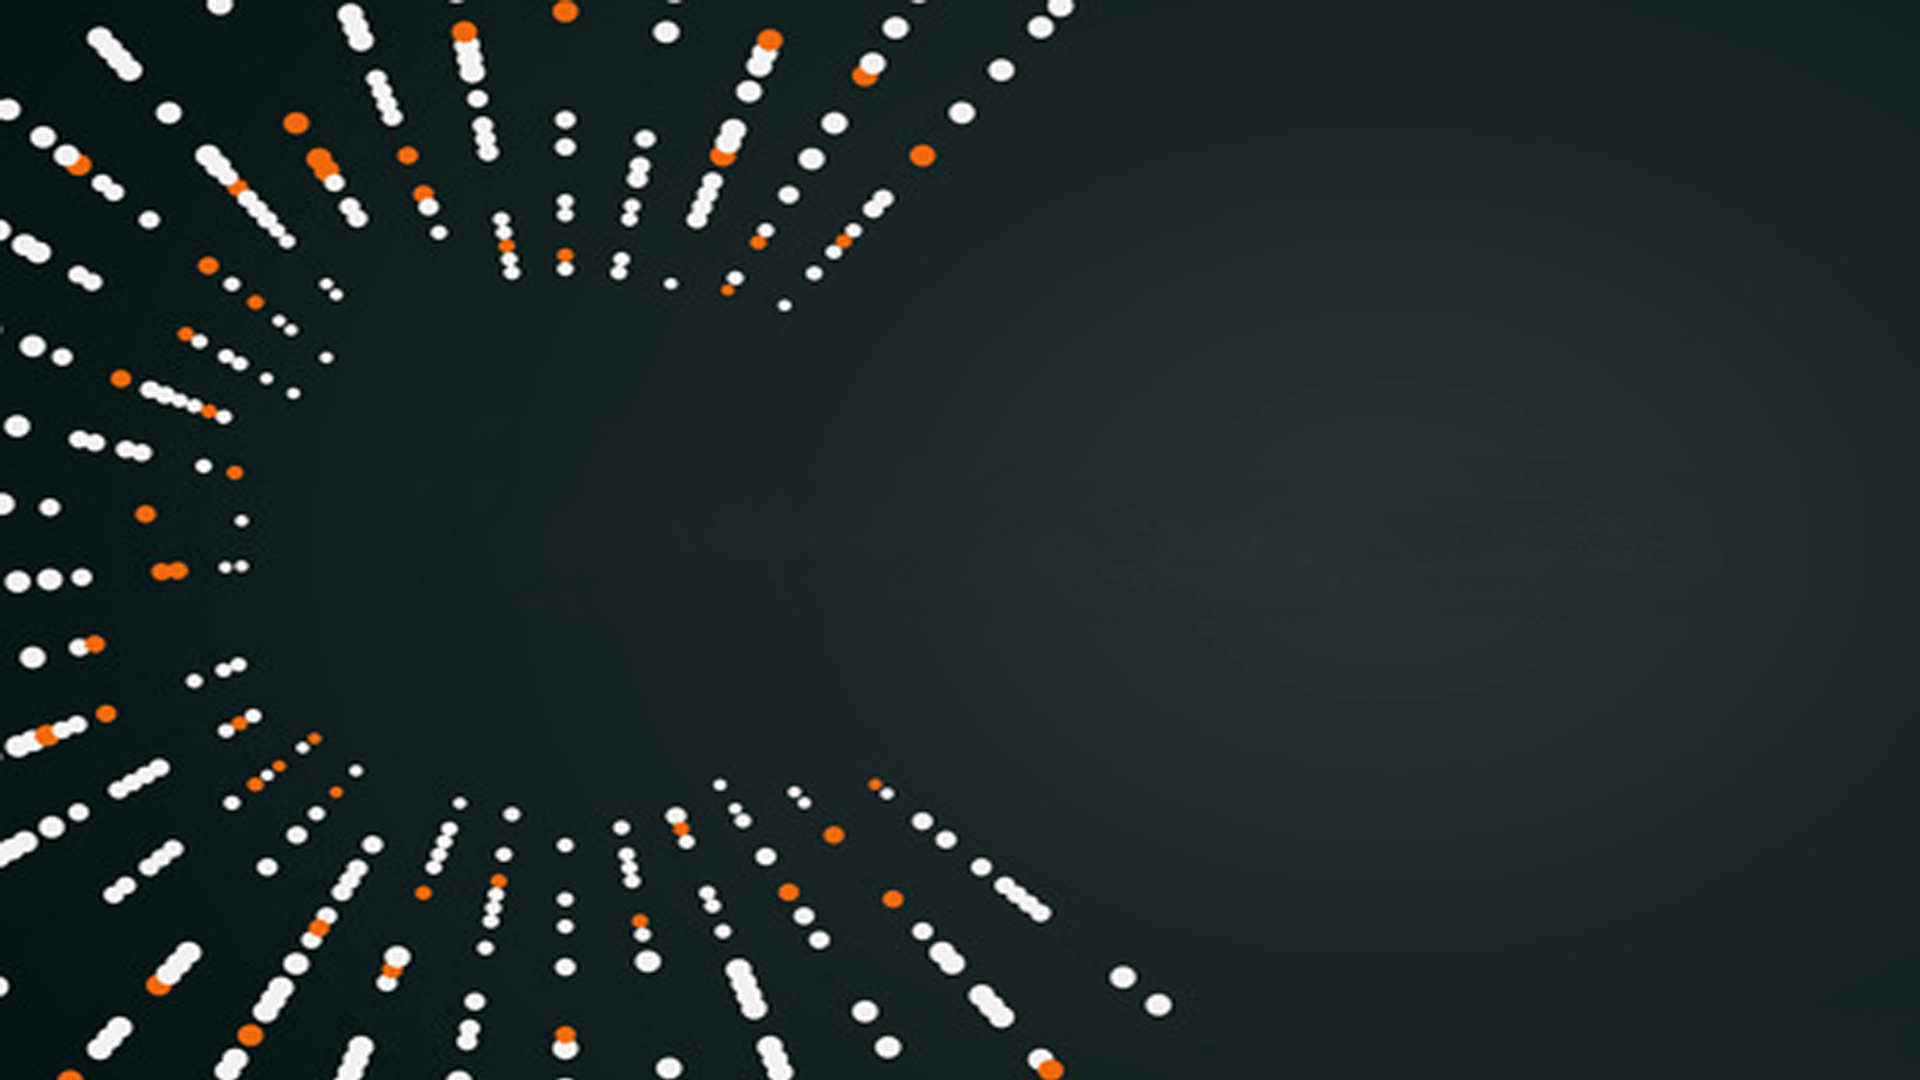
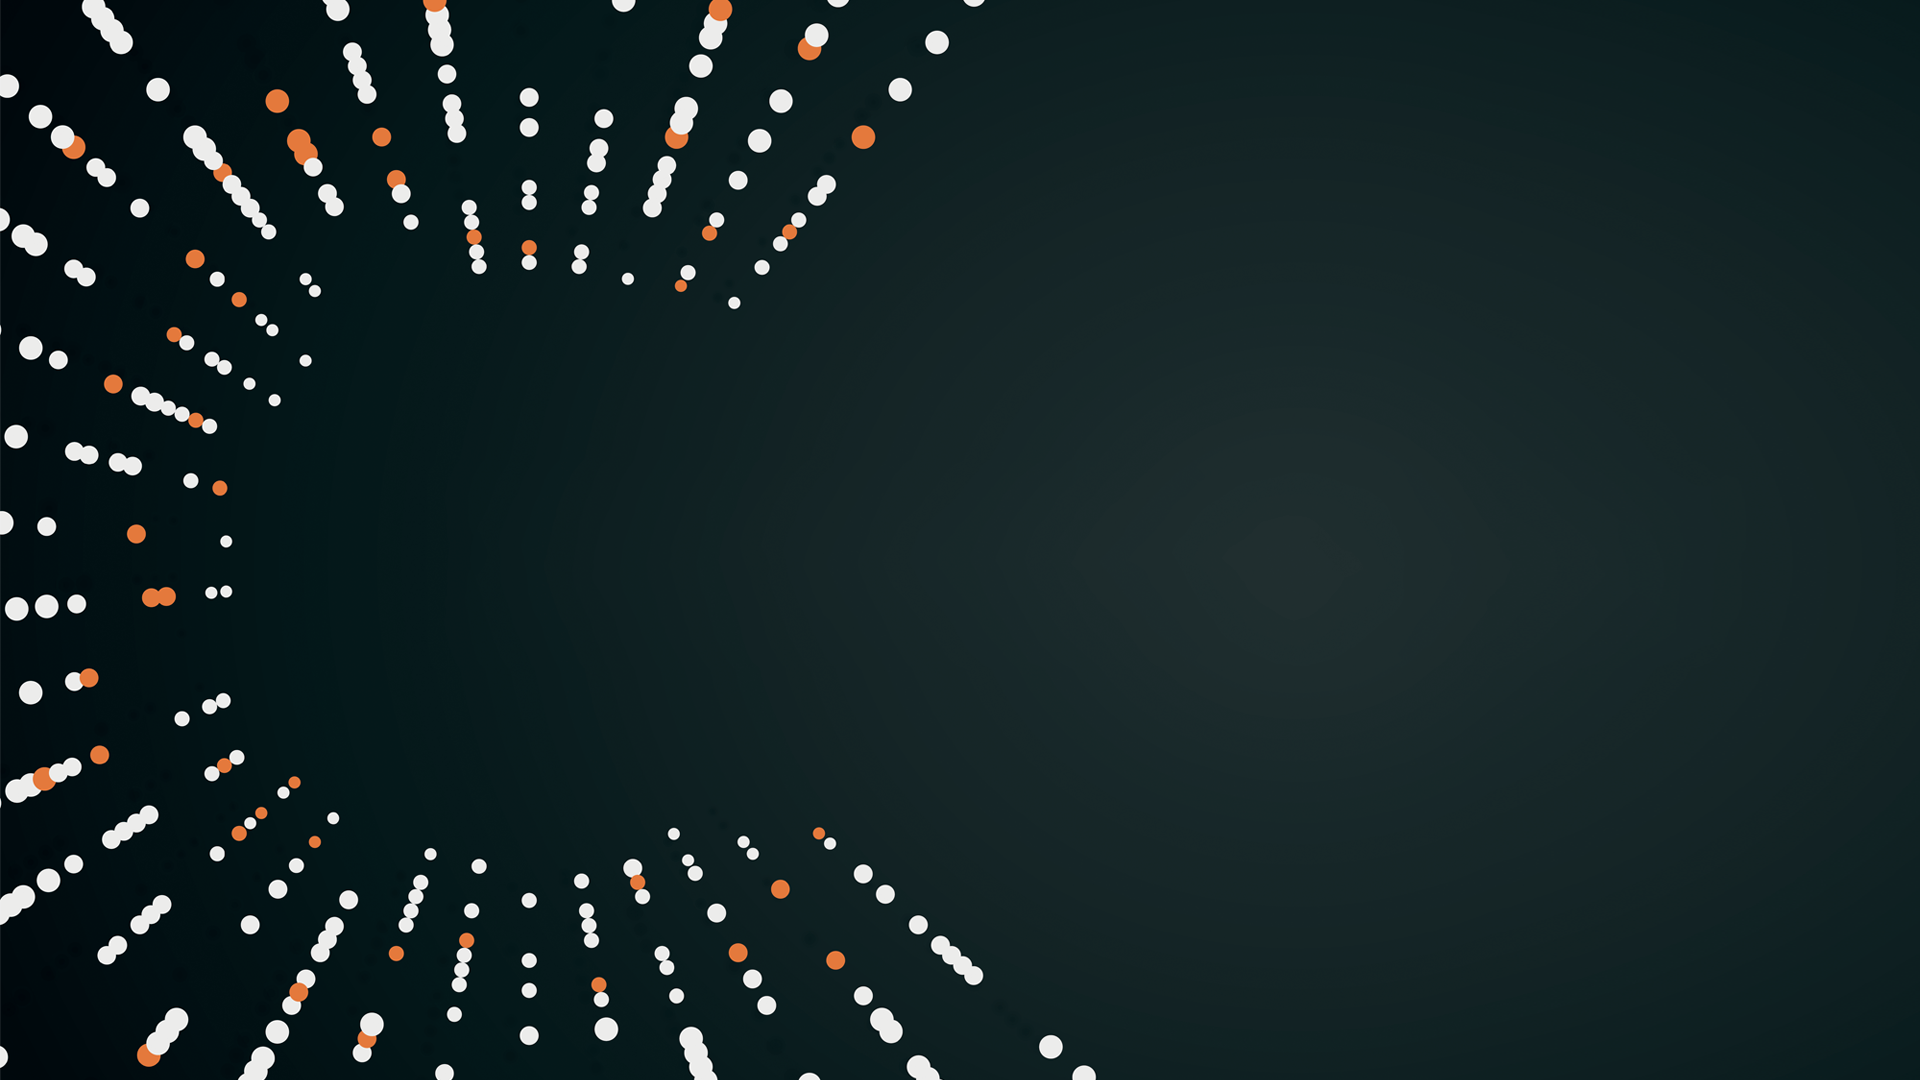
wip home page

diff --git a/public/css/navbar.css b/public/css/navbar.css
@@ -1,7 +1,7 @@
 .navbar {
   width: 90%;
   margin: auto;
-  border: 1px solid red;
+  /* border: 1px solid red; */
   height: 90px;
 }
 .auth-container {
@@ -11,12 +11,13 @@
   height: 100%;
 }
 .links-container {
-  border: 1px solid green;
+  /* border: 1px solid green; */
   width: 15%;
   height: 100%;
   display: flex;
   justify-content: space-around;
   align-items: center;
+  color: white;
 }
 .login-link {
   margin-right: 10px;

diff --git a/public/css/home.css b/public/css/home.css
@@ -6,6 +6,9 @@
   height: 100vh;
   width: 100vw;
   background-image: url(/medias/img/home-bg.png);
+  background-size: cover;
+  overflow: hidden;
+  background-repeat: no-repeat;
 }
 .main-title {
   font-size: 5rem;
